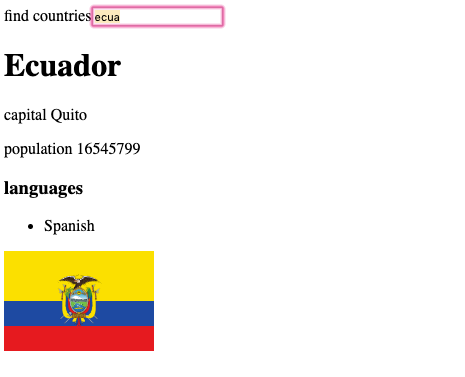
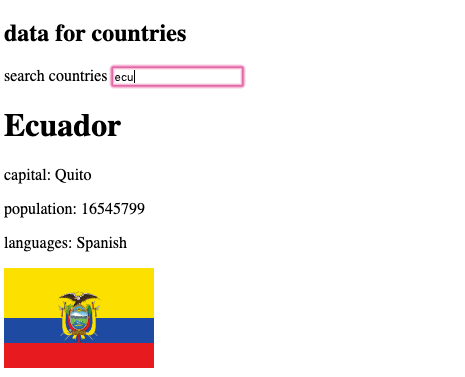
data for countries step2, button option on search

diff --git a/part2/countries/src/components/CountriesDetails.js b/part2/countries/src/components/CountriesDetails.js
@@ -3,13 +3,24 @@ import React from "react";
 const CountriesDetails = ({ countries, changeFilter }) => {
   switch (true) {
     case countries.length > 10: {
-      return <p>Too many matches, specify another filter</p>;
+      return <p>type to specify the filter</p>;
     }
     case countries.length > 1 && countries.length < 10: {
       return (
         <div>
           {countries.map(country => {
-            return <p key={country.name}>{country.name}</p>;
+            return (
+              <div key={country.name}>
+                <span>{country.name}</span>
+                <button
+                  onClick={() => {
+                    changeFilter(country.name);
+                  }}
+                >
+                  show
+                </button>
+              </div>
+            );
           })}
         </div>
       );
@@ -18,15 +29,16 @@ const CountriesDetails = ({ countries, changeFilter }) => {
       return (
         <div>
           <h1>{countries[0].name}</h1>
-          <p>capital {countries[0].capital}</p>
-          <p>population {countries[0].population}</p>
-          <h3>languages</h3>
-          <ul>
+          <p>capital: {countries[0].capital}</p>
+          <p>population: {countries[0].population}</p>
+          <p>
+            languages:{" "}
             {countries[0].languages.map(lang => {
-              return <li key={lang.name}>{lang.name}</li>;
+              return <span key={lang.name}>{lang.name}</span>;
             })}
-          </ul>
-          <img src={countries[0].flag} width="150px" />
+          </p>
+
+          <img src={countries[0].flag} width="150px" alt="flag" />
         </div>
       );
     }

diff --git a/part2/countries/src/App.js b/part2/countries/src/App.js
@@ -10,7 +10,9 @@ const App = () => {
 
   const filteredCountries = countriesFilter
     ? countries.filter(
-        country => country.name.toLowerCase().search(countriesFilter) !== -1
+        country =>
+          country.name.toLowerCase().search(countriesFilter.toLowerCase()) !==
+          -1
       )
     : countries;
 
@@ -28,11 +30,9 @@ const App = () => {
     setCountriesFilter(filter);
   };
 
-  // console.log(countries);
-  // console.log(filteredCountries);
-  // console.log(countriesFilter);
   return (
     <div className="App">
+      <h2>data for countries</h2>
       <CountriesFilter
         value={countriesFilter}
         onChange={handleCountriesFilterChange}

diff --git a/part2/countries/src/components/CountriesFilter.js b/part2/countries/src/components/CountriesFilter.js
@@ -3,7 +3,7 @@ import React from "react";
 const ContriesFilter = ({ value, onChange }) => {
   return (
     <div>
-      <label htmlFor="countries-search">find countries</label>
+      <label htmlFor="countries-search">search countries </label>
       <input
         type="text"
         id="countries-search"
